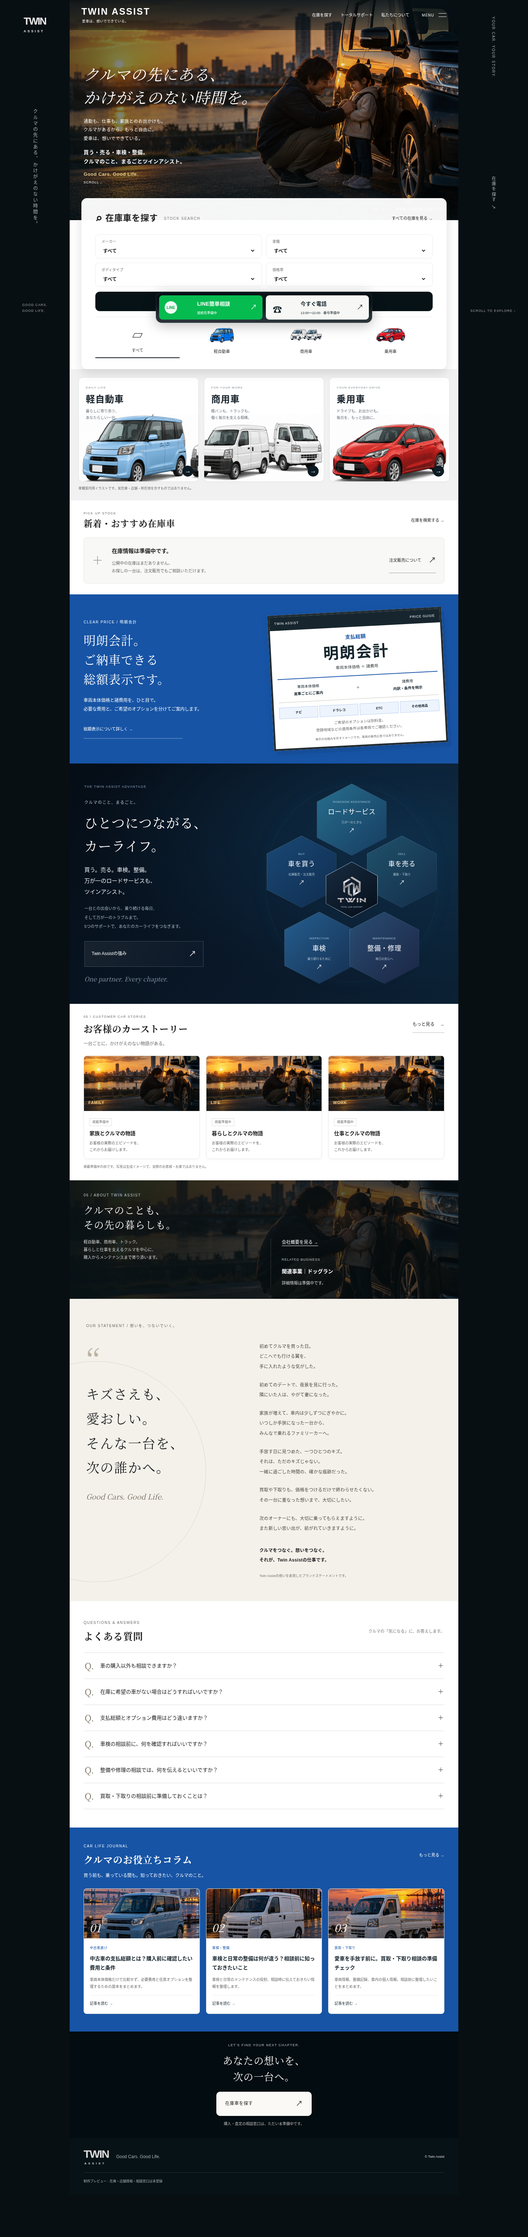
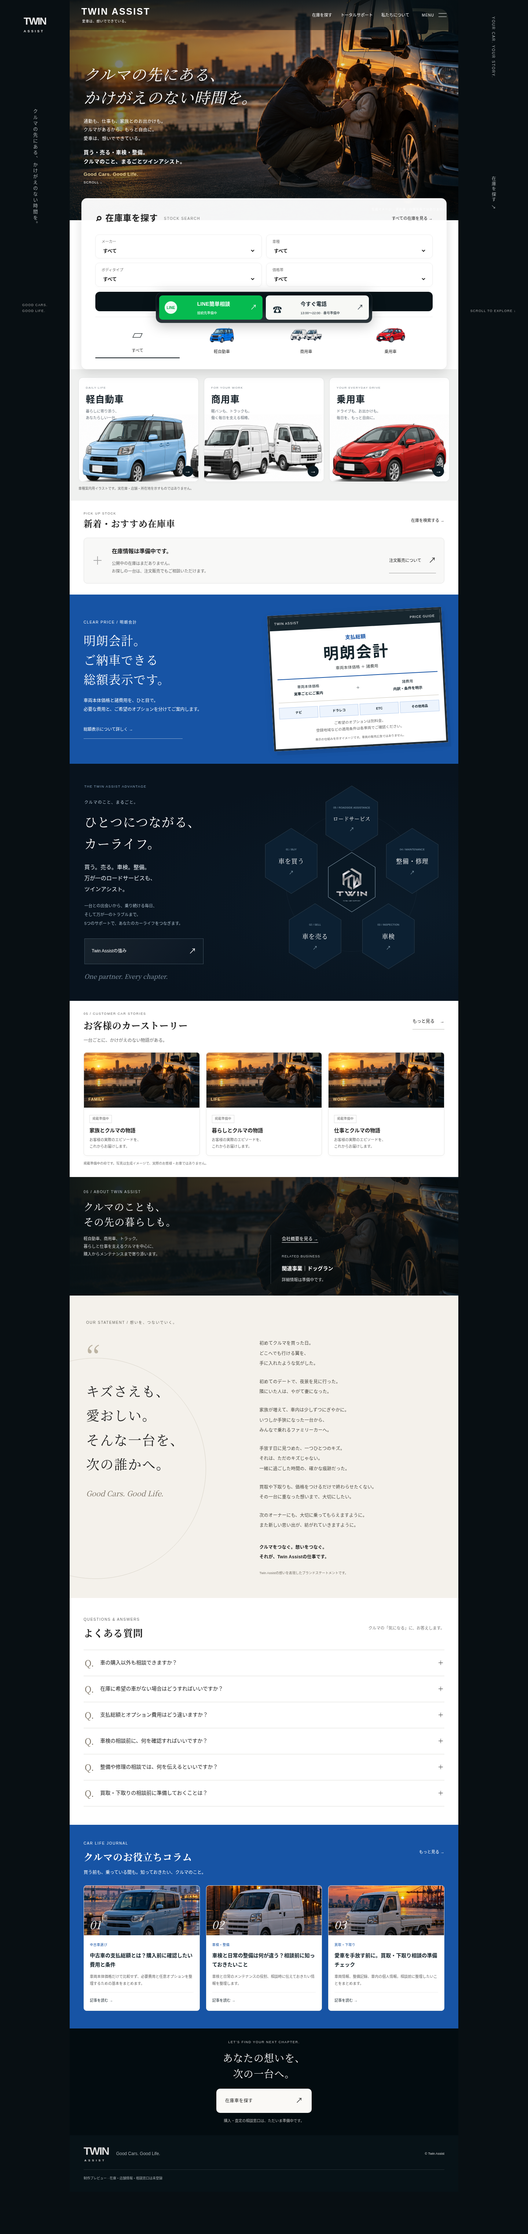
Refine honeycomb balance and create scrolling editorial strengths presentation

diff --git a/public/strengths/index.html b/public/strengths/index.html
@@ -1,1 +1,1 @@
-<!doctype html><html lang="ja"><head><meta charset="UTF-8"><meta name="viewport" content="width=device-width,initial-scale=1"><meta name="robots" content="noindex"><meta name="description" content="販売・注文販売、買取・下取り、車検、整備・修理、ロードサービス。5つのサービスがつながるツインアシストの強みをご紹介します。"><title>Twin Assistの強み | トータルカーサポート</title><link rel="stylesheet" href="/style.css"></head><body class="detail-body"><a class="skip" href="#main">本文へ移動</a><div class="site"><header class="detail-header"><a class="logo" href="/" aria-label="Twin Assist ホーム">TWIN ASSIST<span>愛車は、想いでできている。</span></a><nav aria-label="主要ナビゲーション"><a href="/stock/">在庫一覧</a><a href="/buy/">車を買う</a><a href="/sell/">車を売る</a></nav><button class="menu-button" aria-expanded="false" aria-controls="menu">MENU <span>☰</span></button></header><nav id="menu" class="menu" aria-label="メニュー" hidden><a href="/strengths/">Twin Assistの強み</a><a href="/stock/">在庫一覧</a><a href="/buy/">販売・注文販売</a><a href="/sell/">買取・下取り</a><a href="/inspection/">車検</a><a href="/maintenance/">整備・修理</a><a href="/road-assistance/">ロードサービス</a><a href="/company/">会社概要</a><a href="/business/">事業内容</a><a href="/story/">お客様のカーストーリー</a><a href="/column/">コラム</a><a href="/#faq">よくある質問</a></nav><nav class="detail-breadcrumb" aria-label="パンくず"><a href="/">ホーム</a><span>/</span><span aria-current="page">Twin Assistの強み</span></nav><main id="main"><section class="detail-hero strengths-page-hero"><span class="eyebrow">THE TWIN ASSIST ADVANTAGE</span><h1>Twin Assistの強み</h1><p>購入から、万が一のトラブルまで。ひとつの窓口で、カーライフをつなぐ。</p></section><section class="strengths-overview section"><div><span class="eyebrow">FIVE SERVICES. ONE PARTNER.</span><h2>相談先が、ひとつにつながる。</h2><p>車を選ぶとき、手放すとき、乗り続けるとき。万が一のときも。<br>暮らしと仕事に寄り添う5つのサポートを、Twin Assistで。</p></div><div class="honeycomb honeycomb-five" role="group" aria-label="ツインアシストを中心につながる5つのサポート"><span class="honeycomb-orbit" aria-hidden="true"></span><a class="hex-node hex-buy" href="/strengths/#buy"><span class="hex-inner"><span class="hex-en">BUY</span><strong>車を買う</strong><small>在庫販売・注文販売</small><span class="hex-arrow" aria-hidden="true">↗</span></span></a><a class="hex-node hex-sell" href="/strengths/#sell"><span class="hex-inner"><span class="hex-en">SELL</span><strong>車を売る</strong><small>買取・下取り</small><span class="hex-arrow" aria-hidden="true">↗</span></span></a><a class="hex-node hex-inspection" href="/strengths/#inspection"><span class="hex-inner"><span class="hex-en">INSPECTION</span><strong>車検</strong><small>乗り続けるために</small><span class="hex-arrow" aria-hidden="true">↗</span></span></a><a class="hex-node hex-maintenance" href="/strengths/#maintenance"><span class="hex-inner"><span class="hex-en">MAINTENANCE</span><strong>整備・修理</strong><small>毎日の安心へ</small><span class="hex-arrow" aria-hidden="true">↗</span></span></a><a class="hex-node hex-road" href="/strengths/#road-assistance"><span class="hex-inner"><span class="hex-en">ROADSIDE ASSISTANCE</span><strong>ロードサービス</strong><small>万が一のときも</small><span class="hex-arrow" aria-hidden="true">↗</span></span></a><a class="hex-core" href="/strengths/" aria-label="Twin Assistの強みを見る"><img src="/images/twin-logo-silver.png" width="1280" height="1280" alt="Twin Assistのシルバーロゴ"><span>TOTAL CAR SUPPORT</span></a></div></section><section class="strengths-principle section"><span class="eyebrow">OUR APPROACH</span><h2>支払総額は明確に。<br>購入後のことまで、視野に。</h2><p>必要な費用と任意オプションを分けてご案内し、一台との出会いから次の一台までご相談いただけること。それが、ツインアシストのトータルサポートです。</p><a class="text-link" href="/buy/#price-guide">明朗会計・総額表示について →</a></section><section id="buy" class="strength-detail section"><div class="strength-detail-number">01</div><div class="strength-detail-content"><span class="eyebrow">01 / BUY</span><h2>使い方から、一台を考える。</h2><p>軽自動車、商用車、乗用車。通勤、家族の移動、毎日の仕事など、ご希望の用途と総額予算を整理するところから。公開在庫からの購入も、在庫にない車の注文販売もご相談いただけます。</p><span class="strength-scope">在庫販売・中古車注文販売</span><a class="strengths-link" href="/buy/">販売・注文販売を見る <span aria-hidden="true">↗</span></a></div></section><section id="sell" class="strength-detail section"><div class="strength-detail-number">02</div><div class="strength-detail-content"><span class="eyebrow">02 / SELL</span><h2>乗り換えまで、一緒に考える。</h2><p>買取だけでなく、次の車への乗り換えや下取りまで。今のお車を手放す時期と、次の一台が必要な時期を合わせてご相談いただけます。車両の状態と条件を確認し、ご案内します。</p><span class="strength-scope">買取・下取り</span><a class="strengths-link" href="/sell/">買取・下取りを見る <span aria-hidden="true">↗</span></a></div></section><section id="inspection" class="strength-detail section"><div class="strength-detail-number">03</div><div class="strength-detail-content"><span class="eyebrow">03 / INSPECTION</span><h2>乗り続けるための、車検相談。</h2><p>車検の時期や必要な準備、気になっている症状を整理してご相談いただけます。購入時だけで終わらず、その先のカーライフにもつながる窓口として。日程や費用、対応内容は車両ごとに確認します。</p><span class="strength-scope">車検の時期・準備・費用のご相談</span><a class="strengths-link" href="/inspection/">車検について見る <span aria-hidden="true">↗</span></a></div></section><section id="maintenance" class="strength-detail section"><div class="strength-detail-number">04</div><div class="strength-detail-content"><span class="eyebrow">04 / MAINTENANCE</span><h2>毎日の小さな変化にも、窓口を。</h2><p>日々のメンテナンスから、気になる異音や不調まで。お車の状態を確認し、整備・修理の対応内容をご案内します。車検と日常の整備を分けて考え、長く乗るための相談を支えます。</p><span class="strength-scope">メンテナンス・整備・修理</span><a class="strengths-link" href="/maintenance/">整備・修理を見る <span aria-hidden="true">↗</span></a></div></section><section id="road-assistance" class="strength-detail section"><div class="strength-detail-number">05</div><div class="strength-detail-content"><span class="eyebrow">05 / ROADSIDE ASSISTANCE</span><h2>万が一のときも、相談できる。</h2><p>クルマのトラブルは、突然起きるもの。Twin Assistはロードアシスタンス（ロードサービス）にも対応しています。購入・車検・整備だけでなく、万が一の場面でもご相談いただけることが、トータルサポートの強みです。</p><span class="strength-scope">対応地域・時間・内容・費用は個別に確認します。</span><a class="strengths-link" href="/road-assistance/">ロードサービスについて <span aria-hidden="true">↗</span></a></div></section><section class="detail-consult section"><span class="eyebrow">YOUR CAR. YOUR STORY.</span><h2>クルマのこと、<br>まるごとツインアシスト。</h2><p>具体的な対応内容・日程・費用は、お車の状況とご希望を確認のうえご案内します。</p><div class="detail-contact-buttons"><button class="button" data-dialog="line">LINE簡単相談 ↗</button><button class="button" data-dialog="phone">電話で相談 ↗</button></div><small>接続先は準備中です。電話受付時間：13:00〜22:00</small></section></main><footer class="detail-footer"><a class="logo" href="/">TWIN<span>ASSIST</span></a><p>Good Cars. Good Life.</p><nav aria-label="フッターナビゲーション"><a href="/stock/">在庫一覧</a><a href="/buy/">販売・注文販売</a><a href="/sell/">買取・下取り</a><a href="/inspection/">車検</a><a href="/maintenance/">整備・修理</a><a href="/road-assistance/">ロードサービス</a><a href="/company/">会社概要</a><a href="/business/">事業内容</a><a href="/story/">お客様のカーストーリー</a><a href="/column/">コラム</a><a href="/#faq">よくある質問</a><a href="/contact/">ご相談窓口</a></nav><small>制作プレビュー · 所在地・連絡先は未登録です。</small></footer></div><div class="floating-contact" aria-label="ご相談窓口"><button class="contact-line" data-dialog="line"><span class="contact-symbol" aria-hidden="true">LINE</span><span><strong>LINE簡単相談</strong><small>接続先準備中</small></span><span aria-hidden="true">↗</span></button><button class="contact-phone" data-dialog="phone"><span class="contact-symbol phone-symbol" aria-hidden="true">☎</span><span><strong>今すぐ電話</strong><small>13:00〜22:00 · 番号準備中</small></span><span aria-hidden="true">↗</span></button></div><dialog id="consult-dialog"><button class="dialog-close" aria-label="閉じる">×</button><span class="eyebrow">TWIN ASSIST / CONTACT</span><h2 id="dialog-title">ご相談窓口</h2><p id="dialog-description">相談窓口は公開準備中です。正式な連絡先を確認後、ご案内します。</p><p class="note">このプレビューでは個人情報の入力・送信は行いません。</p><button class="button dark dialog-done">閉じる</button></dialog><script src="/app.js"></script></body></html>
+<!doctype html><html lang="ja"><head><meta charset="UTF-8"><meta name="viewport" content="width=device-width,initial-scale=1"><meta name="robots" content="noindex"><meta name="description" content="販売・注文販売、買取・下取り、車検、整備・修理、ロードサービス。5つのサービスがつながるツインアシストの強みをご紹介します。"><title>Twin Assistの強み | トータルカーサポート</title><link rel="stylesheet" href="/style.css"></head><body class="detail-body strengths-editorial"><a class="skip" href="#main">本文へ移動</a><div class="site"><header class="detail-header"><a class="logo" href="/" aria-label="Twin Assist ホーム">TWIN ASSIST<span>愛車は、想いでできている。</span></a><nav aria-label="主要ナビゲーション"><a href="/stock/">在庫一覧</a><a href="/buy/">車を買う</a><a href="/sell/">車を売る</a></nav><button class="menu-button" aria-expanded="false" aria-controls="menu">MENU <span>☰</span></button></header><nav id="menu" class="menu" aria-label="メニュー" hidden><a href="/strengths/">Twin Assistの強み</a><a href="/stock/">在庫一覧</a><a href="/buy/">販売・注文販売</a><a href="/sell/">買取・下取り</a><a href="/inspection/">車検</a><a href="/maintenance/">整備・修理</a><a href="/road-assistance/">ロードサービス</a><a href="/company/">会社概要</a><a href="/business/">事業内容</a><a href="/story/">お客様のカーストーリー</a><a href="/column/">コラム</a><a href="/#faq">よくある質問</a></nav><nav class="detail-breadcrumb" aria-label="パンくず"><a href="/">ホーム</a><span>/</span><span aria-current="page">Twin Assistの強み</span></nav><main id="main"><section class="detail-hero strengths-page-hero"><span class="eyebrow">THE TWIN ASSIST ADVANTAGE</span><h1>Twin Assistの強み</h1><p>購入から、万が一のトラブルまで。ひとつの窓口で、カーライフをつなぐ。</p></section><section class="strengths-editorial-intro section"><span class="eyebrow">OUR FIVE STRENGTHS</span><h2>一台に、ずっと。<br>ひとつの窓口で。</h2><p>選ぶときも、手放すときも。<br>日々の安心も、万が一のときも。<br>Twin Assistの5つのサポート。</p><span class="editorial-scroll">SCROLL TO DISCOVER ↓</span></section><div class="strengths-scroll"><svg class="strengths-curve" viewBox="0 0 280 2400" preserveAspectRatio="none" aria-hidden="true"><path d="M-70 0 C260 200 260 650 65 1000 S-40 1600 130 1900 S230 2250 40 2400" fill="none" stroke="currentColor" stroke-width="1" vector-effect="non-scaling-stroke"/></svg><aside class="strengths-scroll-rail"><span class="rail-caption">TWIN ASSIST<br>OUR STRENGTHS</span><span class="rail-current" aria-hidden="true">01</span><nav aria-label="強みの目次"><a href="#buy" data-strength-nav="buy" aria-current="step"><span>01</span><small>購入</small></a><a href="#sell" data-strength-nav="sell"><span>02</span><small>売却</small></a><a href="#inspection" data-strength-nav="inspection"><span>03</span><small>車検</small></a><a href="#maintenance" data-strength-nav="maintenance"><span>04</span><small>整備</small></a><a href="#road-assistance" data-strength-nav="road-assistance"><span>05</span><small>万が一</small></a></nav><span class="rail-end">ONE PARTNER.<br>EVERY CHAPTER.</span></aside><div class="strengths-scroll-content"><section id="buy" class="strength-detail section scroll-strength"><div class="strength-detail-number">01</div><div class="strength-detail-content"><span class="strength-editorial-title" aria-hidden="true">Buy.</span><span class="eyebrow">01 / BUY</span><h2>使い方から、<br>一台を考える。</h2><p>軽自動車、商用車、乗用車。通勤、家族の移動、毎日の仕事など、ご希望の用途と総額予算を整理するところから。公開在庫からの購入も、在庫にない車の注文販売もご相談いただけます。</p><span class="strength-scope">在庫販売・中古車注文販売</span><a class="strengths-link" href="/buy/">販売・注文販売を見る <span aria-hidden="true">↗</span></a></div></section><section id="sell" class="strength-detail section scroll-strength"><div class="strength-detail-number">02</div><div class="strength-detail-content"><span class="strength-editorial-title" aria-hidden="true">Sell.</span><span class="eyebrow">02 / SELL</span><h2>乗り換えまで、<br>一緒に考える。</h2><p>買取だけでなく、次の車への乗り換えや下取りまで。今のお車を手放す時期と、次の一台が必要な時期を合わせてご相談いただけます。車両の状態と条件を確認し、ご案内します。</p><span class="strength-scope">買取・下取り</span><a class="strengths-link" href="/sell/">買取・下取りを見る <span aria-hidden="true">↗</span></a></div></section><section id="inspection" class="strength-detail section scroll-strength"><div class="strength-detail-number">03</div><div class="strength-detail-content"><span class="strength-editorial-title" aria-hidden="true">Inspect.</span><span class="eyebrow">03 / INSPECTION</span><h2>乗り続けるための、<br>車検相談。</h2><p>車検の時期や必要な準備、気になっている症状を整理してご相談いただけます。購入時だけで終わらず、その先のカーライフにもつながる窓口として。日程や費用、対応内容は車両ごとに確認します。</p><span class="strength-scope">車検の時期・準備・費用のご相談</span><a class="strengths-link" href="/inspection/">車検について見る <span aria-hidden="true">↗</span></a></div></section><section id="maintenance" class="strength-detail section scroll-strength"><div class="strength-detail-number">04</div><div class="strength-detail-content"><span class="strength-editorial-title" aria-hidden="true">Maintain.</span><span class="eyebrow">04 / MAINTENANCE</span><h2>小さな変化にも、<br>いつもの窓口を。</h2><p>日々のメンテナンスから、気になる異音や不調まで。お車の状態を確認し、整備・修理の対応内容をご案内します。車検と日常の整備を分けて考え、長く乗るための相談を支えます。</p><span class="strength-scope">メンテナンス・整備・修理</span><a class="strengths-link" href="/maintenance/">整備・修理を見る <span aria-hidden="true">↗</span></a></div></section><section id="road-assistance" class="strength-detail section scroll-strength"><div class="strength-detail-number">05</div><div class="strength-detail-content"><span class="strength-editorial-title" aria-hidden="true">Assist.</span><span class="eyebrow">05 / ROADSIDE ASSISTANCE</span><h2>万が一のときも、<br>相談できる。</h2><p>クルマのトラブルは、突然起きるもの。Twin Assistはロードアシスタンス（ロードサービス）にも対応しています。購入・車検・整備だけでなく、万が一の場面でもご相談いただけることが、トータルサポートの強みです。</p><span class="strength-scope">対応地域・時間・内容・費用は個別に確認します。</span><a class="strengths-link" href="/road-assistance/">ロードサービスについて <span aria-hidden="true">↗</span></a></div></section></div></div><section class="strengths-principle section"><span class="eyebrow">OUR APPROACH</span><h2>費用は明確に。<br>その先まで、丁寧に。</h2><p>必要な費用と任意オプションを分けてご案内し、購入後や乗り換え、万が一まで相談できる存在を目指します。</p><a class="text-link" href="/buy/#price-guide">明朗会計・総額表示について →</a></section><section class="detail-consult section"><span class="eyebrow">YOUR CAR. YOUR STORY.</span><h2>クルマのこと、<br>まるごとツインアシスト。</h2><p>具体的な対応内容・日程・費用は、お車の状況とご希望を確認のうえご案内します。</p><div class="detail-contact-buttons"><button class="button" data-dialog="line">LINE簡単相談 ↗</button><button class="button" data-dialog="phone">電話で相談 ↗</button></div><small>接続先は準備中です。電話受付時間：13:00〜22:00</small></section></main><footer class="detail-footer"><a class="logo" href="/">TWIN<span>ASSIST</span></a><p>Good Cars. Good Life.</p><nav aria-label="フッターナビゲーション"><a href="/stock/">在庫一覧</a><a href="/buy/">販売・注文販売</a><a href="/sell/">買取・下取り</a><a href="/inspection/">車検</a><a href="/maintenance/">整備・修理</a><a href="/road-assistance/">ロードサービス</a><a href="/company/">会社概要</a><a href="/business/">事業内容</a><a href="/story/">お客様のカーストーリー</a><a href="/column/">コラム</a><a href="/#faq">よくある質問</a><a href="/contact/">ご相談窓口</a></nav><small>制作プレビュー · 所在地・連絡先は未登録です。</small></footer></div><div class="floating-contact" aria-label="ご相談窓口"><button class="contact-line" data-dialog="line"><span class="contact-symbol" aria-hidden="true">LINE</span><span><strong>LINE簡単相談</strong><small>接続先準備中</small></span><span aria-hidden="true">↗</span></button><button class="contact-phone" data-dialog="phone"><span class="contact-symbol phone-symbol" aria-hidden="true">☎</span><span><strong>今すぐ電話</strong><small>13:00〜22:00 · 番号準備中</small></span><span aria-hidden="true">↗</span></button></div><dialog id="consult-dialog"><button class="dialog-close" aria-label="閉じる">×</button><span class="eyebrow">TWIN ASSIST / CONTACT</span><h2 id="dialog-title">ご相談窓口</h2><p id="dialog-description">相談窓口は公開準備中です。正式な連絡先を確認後、ご案内します。</p><p class="note">このプレビューでは個人情報の入力・送信は行いません。</p><button class="button dark dialog-done">閉じる</button></dialog><script src="/app.js"></script></body></html>

diff --git a/public/index.html b/public/index.html
@@ -10,7 +10,7 @@
 <section class="category-guide" aria-label="車の用途から探す"><a href="/stock/?category=kei" class="category-tile daily" data-category-link="kei"><span class="eyebrow">DAILY LIFE</span><h2>軽自動車</h2><p>暮らしに寄り添う、<br>あなたらしい一台。</p><span class="circle-arrow">→</span></a><a href="/stock/?category=commercial" class="category-tile work" data-category-link="commercial"><span class="eyebrow">FOR YOUR WORK</span><h2>商用車</h2><p>軽バンも、トラックも。<br>働く毎日を支える相棒。</p><span class="circle-arrow">→</span></a><a href="/stock/?category=passenger" class="category-tile passenger" data-category-link="passenger"><span class="eyebrow">YOUR EVERYDAY DRIVE</span><h2>乗用車</h2><p>ドライブも、お出かけも。<br>毎日を、もっと自由に。</p><span class="circle-arrow">→</span></a><p class="category-note">車種案内用イラストです。実在庫・店舗・所在地を示すものではありません。</p></section><section id="inventory" class="inventory section"><div class="title-row"><div><span class="eyebrow">PICK UP STOCK</span><h2>新着・おすすめ在庫車</h2></div><a href="#stock" class="all-stock">在庫を検索する →</a></div><div class="empty-stock"><span class="empty-icon" aria-hidden="true">＋</span><div><h3>在庫情報は準備中です。</h3><p>公開中の在庫はまだありません。<br>お探しの一台は、注文販売でもご相談いただけます。</p></div><a href="/buy/" class="text-link">注文販売について <span>↗</span></a></div></section>
 <section class="price section" aria-labelledby="price-title"><div class="price-intro"><span class="eyebrow">CLEAR PRICE / 明朗会計</span><h2 id="price-title">明朗会計。<br>ご納車できる<br>総額表示です。</h2><p>車両本体価格と諸費用を、ひと目で。<br>必要な費用と、ご希望のオプションを分けてご案内します。</p><a class="text-link" href="/buy/#price-guide">総額表示について詳しく →</a></div><div class="price-board" aria-label="支払総額の仕組みを示すデザイン"><div class="board-top"><span>TWIN ASSIST</span><span>PRICE GUIDE</span></div><div class="board-total"><span class="board-label">支払総額</span><strong>明朗会計</strong><small>車両本体価格 ＋ 諸費用</small></div><div class="board-breakdown"><div><span>車両本体価格</span><strong>実車ごとにご案内</strong></div><span aria-hidden="true">＋</span><div><span>諸費用</span><strong>内訳・条件を明示</strong></div></div><div class="board-options"><span>ナビ</span><span>ドラレコ</span><span>ETC</span><span>その他用品</span></div><p>ご希望のオプションは別料金。<br>登録地域などの適用条件は各車両でご確認ください。</p><small class="board-disclaimer">表示の仕組みを示すイメージです。車両の販売広告ではありません。</small></div></section>
 
-<section id="services" class="services section strengths-teaser" aria-labelledby="strengths-teaser-title"><div class="strengths-copy"><span class="eyebrow">THE TWIN ASSIST ADVANTAGE</span><span class="strengths-kicker">クルマのこと、まるごと。</span><h2 id="strengths-teaser-title">ひとつにつながる、<br>カーライフ。</h2><p class="strengths-lead">買う。売る。車検。整備。<br>万が一のロードサービスも、<br>ツインアシスト。</p><p>一台との出会いから、乗り続ける毎日、<br>そして万が一のトラブルまで。<br>5つのサポートで、あなたのカーライフをつなぎます。</p><a class="strengths-link" href="/strengths/">Twin Assistの強み <span aria-hidden="true">↗</span></a><span class="strengths-sign">One partner. Every chapter.</span></div><div class="honeycomb honeycomb-five" role="group" aria-label="ツインアシストを中心につながる5つのサポート"><span class="honeycomb-orbit" aria-hidden="true"></span><a class="hex-node hex-buy" href="/strengths/#buy"><span class="hex-inner"><span class="hex-en">BUY</span><strong>車を買う</strong><small>在庫販売・注文販売</small><span class="hex-arrow" aria-hidden="true">↗</span></span></a><a class="hex-node hex-sell" href="/strengths/#sell"><span class="hex-inner"><span class="hex-en">SELL</span><strong>車を売る</strong><small>買取・下取り</small><span class="hex-arrow" aria-hidden="true">↗</span></span></a><a class="hex-node hex-inspection" href="/strengths/#inspection"><span class="hex-inner"><span class="hex-en">INSPECTION</span><strong>車検</strong><small>乗り続けるために</small><span class="hex-arrow" aria-hidden="true">↗</span></span></a><a class="hex-node hex-maintenance" href="/strengths/#maintenance"><span class="hex-inner"><span class="hex-en">MAINTENANCE</span><strong>整備・修理</strong><small>毎日の安心へ</small><span class="hex-arrow" aria-hidden="true">↗</span></span></a><a class="hex-node hex-road" href="/strengths/#road-assistance"><span class="hex-inner"><span class="hex-en">ROADSIDE ASSISTANCE</span><strong>ロードサービス</strong><small>万が一のときも</small><span class="hex-arrow" aria-hidden="true">↗</span></span></a><a class="hex-core" href="/strengths/" aria-label="Twin Assistの強みを見る"><img src="/images/twin-logo-silver.png" width="1280" height="1280" alt="Twin Assistのシルバーロゴ"><span>TOTAL CAR SUPPORT</span></a></div></section>
+<section id="services" class="services section strengths-teaser" aria-labelledby="strengths-teaser-title"><div class="strengths-copy"><span class="eyebrow">THE TWIN ASSIST ADVANTAGE</span><span class="strengths-kicker">クルマのこと、まるごと。</span><h2 id="strengths-teaser-title">ひとつにつながる、<br>カーライフ。</h2><p class="strengths-lead">買う。売る。車検。整備。<br>万が一のロードサービスも、<br>ツインアシスト。</p><p>一台との出会いから、乗り続ける毎日、<br>そして万が一のトラブルまで。<br>5つのサポートで、あなたのカーライフをつなぎます。</p><a class="strengths-link" href="/strengths/">Twin Assistの強み <span aria-hidden="true">↗</span></a><span class="strengths-sign">One partner. Every chapter.</span></div><div class="honeycomb honeycomb-five" role="group" aria-label="ツインアシストを中心につながる5つのサポート"><span class="honeycomb-orbit" aria-hidden="true"></span><a class="hex-node hex-buy" href="/strengths/#buy"><span class="hex-inner"><span class="hex-en">01 / BUY</span><strong>車を買う</strong><small>在庫販売・注文販売</small><span class="hex-arrow" aria-hidden="true">↗</span></span></a><a class="hex-node hex-sell" href="/strengths/#sell"><span class="hex-inner"><span class="hex-en">02 / SELL</span><strong>車を売る</strong><small>買取・下取り</small><span class="hex-arrow" aria-hidden="true">↗</span></span></a><a class="hex-node hex-inspection" href="/strengths/#inspection"><span class="hex-inner"><span class="hex-en">03 / INSPECTION</span><strong>車検</strong><small>乗り続けるために</small><span class="hex-arrow" aria-hidden="true">↗</span></span></a><a class="hex-node hex-maintenance" href="/strengths/#maintenance"><span class="hex-inner"><span class="hex-en">04 / MAINTENANCE</span><strong>整備・修理</strong><small>毎日の安心へ</small><span class="hex-arrow" aria-hidden="true">↗</span></span></a><a class="hex-node hex-road" href="/strengths/#road-assistance"><span class="hex-inner"><span class="hex-en">05 / ROADSIDE ASSISTANCE</span><strong>ロードサービス</strong><small>万が一のときも</small><span class="hex-arrow" aria-hidden="true">↗</span></span></a><a class="hex-core" href="/strengths/" aria-label="Twin Assistの強みを見る"><img src="/images/twin-logo-silver.png" width="1280" height="1280" alt="Twin Assistのシルバーロゴ"><span>TOTAL CAR SUPPORT</span></a></div></section>
 <section id="story" class="story section"><div class="title-row"><div><span class="eyebrow">05 / CUSTOMER CAR STORIES</span><h2>お客様のカーストーリー</h2></div><a class="all-stock story-more" href="/story/">もっと見る <span aria-hidden="true">→</span></a></div><p class="story-intro">一台ごとに、かけがえのない物語がある。</p><div class="customer-story-grid"><article class="customer-story-card"><div class="customer-story-visual visual-1" aria-hidden="true"><span>FAMILY</span></div><div class="customer-story-body"><span class="story-preparing">掲載準備中</span><h3>家族とクルマの物語</h3><p>お客様の実際のエピソードを、<br>これからお届けします。</p></div></article><article class="customer-story-card"><div class="customer-story-visual visual-2" aria-hidden="true"><span>LIFE</span></div><div class="customer-story-body"><span class="story-preparing">掲載準備中</span><h3>暮らしとクルマの物語</h3><p>お客様の実際のエピソードを、<br>これからお届けします。</p></div></article><article class="customer-story-card"><div class="customer-story-visual visual-3" aria-hidden="true"><span>WORK</span></div><div class="customer-story-body"><span class="story-preparing">掲載準備中</span><h3>仕事とクルマの物語</h3><p>お客様の実際のエピソードを、<br>これからお届けします。</p></div></article></div><p class="story-disclaimer">掲載準備中の枠です。写真は生成イメージで、実際のお客様・お車ではありません。</p></section>
 <section id="about" class="about section"><div class="about-image" aria-hidden="true"></div><span class="eyebrow">06 / ABOUT TWIN ASSIST</span><h2>クルマのことも、<br>その先の暮らしも。</h2><div class="about-columns"><p>軽自動車、商用車、トラック。<br>暮らしと仕事を支えるクルマを中心に、<br>購入からメンテナンスまで寄り添います。</p><div class="related"><a class="about-company-link" href="/company/">会社概要を見る →</a><span class="tiny">RELATED BUSINESS</span><h3>関連事業｜ドッグラン</h3><p>詳細情報は準備中です。</p></div></div></section>
 <section class="statement section" aria-labelledby="statement-title"><span class="eyebrow">OUR STATEMENT / 想いを、つないでいく。</span><div class="statement-layout"><div class="statement-heading"><span class="statement-mark" aria-hidden="true">“</span><h2 id="statement-title">キズさえも、<br>愛おしい。<br>そんな一台を、<br>次の誰かへ。</h2><span class="statement-sign">Good Cars. Good Life.</span></div><div class="statement-copy"><p>初めてクルマを買った日。<br>どこへでも行ける翼を、<br>手に入れたような気がした。</p><p>初めてのデートで、夜景を見に行った。<br>隣にいた人は、やがて妻になった。</p><p>家族が増えて、車内は少しずつにぎやかに。<br>いつしか手狭になった一台から、<br>みんなで乗れるファミリーカーへ。</p><p>手放す日に見つめた、一つひとつのキズ。<br>それは、ただのキズじゃない。<br>一緒に過ごした時間の、確かな痕跡だった。</p><p>買取や下取りも、価格をつけるだけで終わらせたくない。<br>その一台に重なった想いまで、大切にしたい。</p><p>次のオーナーにも、大切に乗ってもらえますように。<br>また新しい思い出が、紡がれていきますように。</p><p class="statement-last">クルマをつなぐ。想いをつなぐ。<br>それが、Twin Assistの仕事です。</p><span class="statement-caption">Twin Assistの想いを表現したブランドステートメントです。</span></div></div></section>

diff --git a/public/style.css b/public/style.css
@@ -56,3 +56,9 @@ header .menu-button{color:inherit}@media(max-width:767px){.category-tile h2{font
 /* Five-part support, including roadside assistance. */
 .honeycomb-five{aspect-ratio:.88;max-width:480px}.honeycomb-five .hex-node{width:43%;height:36%}.honeycomb-five .hex-road{left:28.5%;top:0}.honeycomb-five .hex-road:before{background:linear-gradient(135deg,#256f8eef,#163c61f2)}.honeycomb-five .hex-buy{left:0;top:26%}.honeycomb-five .hex-sell{right:0;top:26%}.honeycomb-five .hex-inspection{left:10%;bottom:0}.honeycomb-five .hex-maintenance{right:10%;bottom:0}.honeycomb-five .hex-core{left:34%;top:39%;width:32%;height:28%}.honeycomb-five .hex-buy .hex-inner,.honeycomb-five .hex-sell .hex-inner{transform:translateY(-8%)}.honeycomb-five .hex-inspection .hex-inner,.honeycomb-five .hex-maintenance .hex-inner{transform:translateY(12%)}.honeycomb-five .hex-inner strong{font-size:18px}.honeycomb-five .hex-inner small{font-size:8px}.honeycomb-five .hex-en{font-size:8px;letter-spacing:.06em}.honeycomb-five .hex-road .hex-inner{transform:translateY(-8%)}
 @media(max-width:767px){.honeycomb-five .hex-inner strong{font-size:15px}.honeycomb-five .hex-road .hex-inner strong{font-size:14px}.honeycomb-five .hex-en{font-size:6px}.honeycomb-five .hex-inner small{font-size:7px}.honeycomb-five .hex-inner{gap:5px}.honeycomb-five .hex-core>span{font-size:3px}}
+/* Restrained radial composition: identical cells, quieter surfaces, breathing room. */
+.strengths-teaser{background:radial-gradient(ellipse at 85% 60%,#14304544,transparent 65%),#08131e}.strengths-teaser:before{display:none}.honeycomb-five{aspect-ratio:.95;max-width:500px}.honeycomb-five .hex-node{width:31%;height:34%;background:#637c8f66}.honeycomb-five .hex-node:before{background:#0c2032}.honeycomb-five .hex-buy{left:1.5%;top:22%}.honeycomb-five .hex-sell{left:14.5%;right:auto;top:61%;bottom:auto}.honeycomb-five .hex-inspection{left:54.5%;bottom:auto;top:61%}.honeycomb-five .hex-maintenance{left:67.5%;right:auto;bottom:auto;top:22%}.honeycomb-five .hex-road{left:34.5%;top:0}.honeycomb-five .hex-core{left:36%;top:34.5%;width:28%;height:31%;background:#9ab1c1}.honeycomb-five .hex-core:before{background:#091824}.honeycomb-five .hex-inner{gap:12px;transform:none!important;padding:10px}.honeycomb-five .hex-inner small{display:none}.honeycomb-five .hex-inner strong{font-family:'Yu Mincho',serif;font-size:17px;letter-spacing:.04em}.honeycomb-five .hex-road .hex-inner strong{font-size:14px}.honeycomb-five .hex-en{font-size:7px;letter-spacing:.03em;color:#92acbf}.honeycomb-five .hex-arrow{font-size:13px;color:#91aaba}.honeycomb-orbit{inset:14%;border-color:#819bad17;box-shadow:none}.hex-node:hover:before,.hex-node:focus-visible:before{background:#193851}.honeycomb-five .hex-node:hover{filter:none}.honeycomb-five .hex-core>span{font-size:4px}.strengths-copy h2{font-size:34px}
+/* Scroll editorial: visible by default, enhanced with a progressive reading rail. */
+.strengths-editorial .strengths-page-hero{background:#fafafa;color:#17222a;border-bottom:1px solid #e5e8eb;padding-top:50px;padding-bottom:45px}.strengths-editorial .strengths-page-hero h1{font-size:36px}.strengths-editorial .strengths-page-hero p{color:#657078}.strengths-editorial .strengths-page-hero .eyebrow{color:#607e96}.strengths-editorial .strengths-page-hero:after{display:none}.strengths-editorial-intro{background:#fafafa;padding:65px 55px 55px;position:relative;background-image:linear-gradient(#163a5510 1px,transparent 1px),linear-gradient(90deg,#163a5510 1px,transparent 1px);background-size:88px 88px}.strengths-editorial-intro h2{font-family:'Yu Mincho',serif;font-size:44px;line-height:1.6;font-weight:500;margin:25px 0}.strengths-editorial-intro p{font-size:13px;line-height:2.2;color:#606b73}.editorial-scroll{display:block;font-size:9px;letter-spacing:.15em;color:#687c8b;margin-top:30px}.strengths-scroll{position:relative;display:grid;grid-template-columns:205px minmax(0,1fr);align-items:start;background:#fafafa;background-image:linear-gradient(#163a5510 1px,transparent 1px),linear-gradient(90deg,#163a5510 1px,transparent 1px);background-size:88px 88px}.strengths-scroll-rail{position:sticky;top:35px;min-height:510px;height:calc(100svh - 145px);max-height:760px;padding:35px 25px 35px 35px;display:flex;flex-direction:column;z-index:2}.rail-caption{font-size:9px;letter-spacing:.12em;color:#566c7d;line-height:1.9}.rail-current{font-size:66px;line-height:1;letter-spacing:-.07em;color:#163d5b;margin:28px 0;font-weight:650}.strengths-scroll-rail nav{display:grid;gap:4px}.strengths-scroll-rail nav a{display:flex;align-items:center;gap:14px;padding:10px 0;font-size:12px;color:#7a858e;min-height:44px}.strengths-scroll-rail nav a:before{content:'';width:5px;height:5px;border:1px solid #a5b2bc;border-radius:50%;transition:background .2s}.strengths-scroll-rail nav a[aria-current=step]{color:#173d58;font-weight:600}.strengths-scroll-rail nav a[aria-current=step]:before{background:#173d58;border-color:#173d58}.strengths-scroll-rail nav small{font-size:10px}.rail-end{font-size:8px;letter-spacing:.12em;line-height:1.9;color:#7d8e9a;margin-top:auto;padding-top:25px}.strengths-curve{position:absolute;top:0;bottom:0;left:-60px;height:100%;width:280px;color:#63809a44;pointer-events:none}.strengths-scroll-content{min-width:0;position:relative}.strengths-editorial .scroll-strength{min-height:78svh;display:grid;grid-template-columns:80px minmax(0,1fr);gap:25px;align-content:center;align-items:start;padding:70px 55px 70px 10px;border:0;scroll-margin-top:40px;position:relative}.scroll-strength:before{content:'';position:absolute;top:50%;left:-27px;width:7px;height:7px;border-radius:50%;background:#7d94a6;box-shadow:0 0 0 7px #fafafa}.strengths-editorial .strength-detail-number{font-family:Arial,sans-serif;font-weight:650;font-style:normal;font-size:50px;letter-spacing:-.07em;line-height:1.15;color:#8a969f;transition:color .4s}.strengths-editorial .strength-detail-content{padding-top:2px;transition:transform .65s,opacity .65s}.strength-editorial-title{font-size:38px;line-height:1.2;letter-spacing:-.05em;color:#172c3b;display:block;margin-bottom:20px}.strengths-editorial .scroll-strength h2{font-family:'Yu Mincho',serif;font-size:27px;line-height:1.75;font-weight:500;margin:14px 0 20px}.strengths-editorial .scroll-strength p{font-size:13px;line-height:2.2;color:#5b6770}.strengths-editorial .scroll-strength .eyebrow{font-size:8px;letter-spacing:.12em;color:#738795}.strengths-editorial .scroll-strength .strength-scope{font-size:10px;color:#768994;margin-top:23px}.strengths-editorial .scroll-strength .strengths-link{background:none;border:0;border-bottom:1px solid #93a4b1;padding:13px 0;color:#1c415e;font-size:11px;margin-top:22px}.strengths-editorial .scroll-strength.is-active .strength-detail-number{color:#173d58}.strengths-editorial .scroll-strength.is-active:before{background:#173d58}.strengths-editorial .scroll-strength.has-pending-reveal .strength-detail-content{opacity:.35;transform:translateY(20px)}.strengths-editorial .strengths-principle{padding:55px;background:#eaf0f4}.strengths-editorial .strengths-principle h2{font-size:32px}
+@media(max-width:767px){.honeycomb-five .hex-inner{gap:7px;padding:5px}.honeycomb-five .hex-inner strong{font-size:14px}.honeycomb-five .hex-road .hex-inner strong{font-size:11px}.honeycomb-five .hex-en{font-size:5px;letter-spacing:0}.honeycomb-five .hex-arrow{font-size:11px}.honeycomb-five .hex-core{padding:7px}.honeycomb-five .hex-core>span{font-size:3px}.strengths-copy h2{font-size:30px}.strengths-editorial .strengths-page-hero{padding:32px 24px}.strengths-editorial .strengths-page-hero h1{font-size:29px}.strengths-editorial-intro{padding:40px 25px;background-size:56px 56px}.strengths-editorial-intro h2{font-size:34px;margin:20px 0}.strengths-editorial-intro p{font-size:12px}.strengths-scroll{grid-template-columns:1fr;background-size:56px 56px}.strengths-scroll-rail{top:0;height:auto;min-height:0;max-height:none;padding:12px 20px;background:#fafafaf2;backdrop-filter:blur(10px);border-top:1px solid #dce3e8;border-bottom:1px solid #dce3e8;display:block;z-index:4}.rail-caption,.rail-current,.rail-end{display:none}.strengths-scroll-rail nav{display:flex;justify-content:space-between;gap:8px}.strengths-scroll-rail nav a{padding:3px 0;gap:6px;font-size:11px;min-height:40px}.strengths-scroll-rail nav small{font-size:8px}.strengths-scroll-rail nav a:before{width:3px;height:3px}.strengths-editorial .scroll-strength{grid-template-columns:47px minmax(0,1fr);gap:17px;min-height:78svh;padding:60px 25px 60px 28px;scroll-margin-top:90px}.strengths-editorial .strength-detail-number{font-size:34px}.strength-editorial-title{font-size:34px;margin-bottom:22px}.strengths-editorial .scroll-strength h2{font-size:23px;line-height:1.7;margin:14px 0 18px}.strengths-editorial .scroll-strength p{font-size:12px;line-height:2.15}.strengths-editorial .scroll-strength .strength-scope{font-size:9px}.strengths-editorial .scroll-strength .strengths-link{font-size:10px}.strengths-curve{left:-125px;width:240px}.scroll-strength:before{left:22px;top:calc(50% + 25px);width:5px;height:5px;box-shadow:0 0 0 5px #fafafa}.strengths-editorial .strengths-principle{padding:35px 25px}.strengths-editorial .strengths-principle h2{font-size:27px}}
+@media(prefers-reduced-motion:reduce){.strengths-editorial .strength-detail-content,.strengths-editorial .strength-detail-number,.strengths-scroll-rail nav a:before{transition:none}.strengths-editorial .scroll-strength.has-pending-reveal .strength-detail-content{opacity:1;transform:none}}

diff --git a/public/app.js b/public/app.js
@@ -12,3 +12,7 @@ dialog?.addEventListener('click',event=>{if(event.target===dialog){const rect=di
 document.querySelectorAll('a[href^="#faq-"]').forEach(link=>link.addEventListener('click',()=>{const item=document.querySelector(link.getAttribute('href'));if(item)item.open=true;}));
 const stockForm=document.querySelector('#stock-filter');
 if(stockForm){const params=new URLSearchParams(location.search);if(['van','truck'].includes(params.get('category'))){params.set('category','commercial');history.replaceState(null,'',location.pathname+'?'+params.toString()+location.hash);}for(const key of ['keyword','category','maker','price','sort']){const input=stockForm.elements.namedItem(key);if(input&&params.has(key)){const value=params.get(key);if(input.tagName==='SELECT'){if([...input.options].some(o=>o.value===value))input.value=value;}else input.value=value;}}const labels={kei:'軽自動車',commercial:'商用車（軽バン・トラック）',passenger:'乗用車'};const chosen=stockForm.elements.namedItem('category').value;const keyword=stockForm.elements.namedItem('keyword').value;document.querySelector('#stock-filter-summary').textContent=(labels[chosen]||'すべての用途')+(keyword?' ／ キーワード：'+keyword:'')+'：現在、公開在庫は0台です。';}
+
+// Progress follows natural scrolling; the content also remains readable without JS.
+const scrollStrengths=[...document.querySelectorAll('.scroll-strength')];
+if(scrollStrengths.length){const navItems=[...document.querySelectorAll('[data-strength-nav]')];const motion=matchMedia('(prefers-reduced-motion: reduce)');let rafPending=false;const activate=section=>{for(const item of scrollStrengths)item.classList.toggle('is-active',item===section);for(const link of navItems){if(link.dataset.strengthNav===section.id)link.setAttribute('aria-current','step');else link.removeAttribute('aria-current');}const current=document.querySelector('.rail-current');if(current)current.textContent=section.querySelector('.strength-detail-number').textContent;};const update=()=>{rafPending=false;const anchor=innerHeight*.45;const closest=scrollStrengths.reduce((best,section)=>Math.abs(section.getBoundingClientRect().top+section.getBoundingClientRect().height/2-anchor)<Math.abs(best.getBoundingClientRect().top+best.getBoundingClientRect().height/2-anchor)?section:best);activate(closest);};addEventListener('scroll',()=>{if(!rafPending){rafPending=true;requestAnimationFrame(update);}},{passive:true});addEventListener('resize',update);addEventListener('hashchange',update);if('IntersectionObserver' in window&&!motion.matches){const observer=new IntersectionObserver(entries=>{for(const entry of entries)if(entry.isIntersecting){entry.target.classList.remove('has-pending-reveal');observer.unobserve(entry.target);}},{threshold:.12});for(const section of scrollStrengths){if(section.getBoundingClientRect().top>innerHeight)section.classList.add('has-pending-reveal');observer.observe(section);}}update();}
